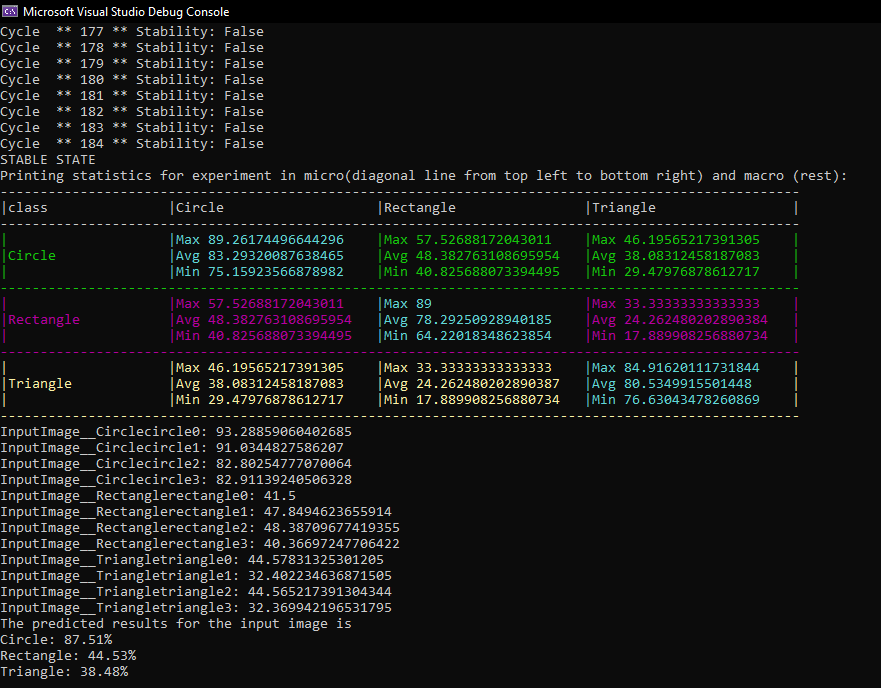
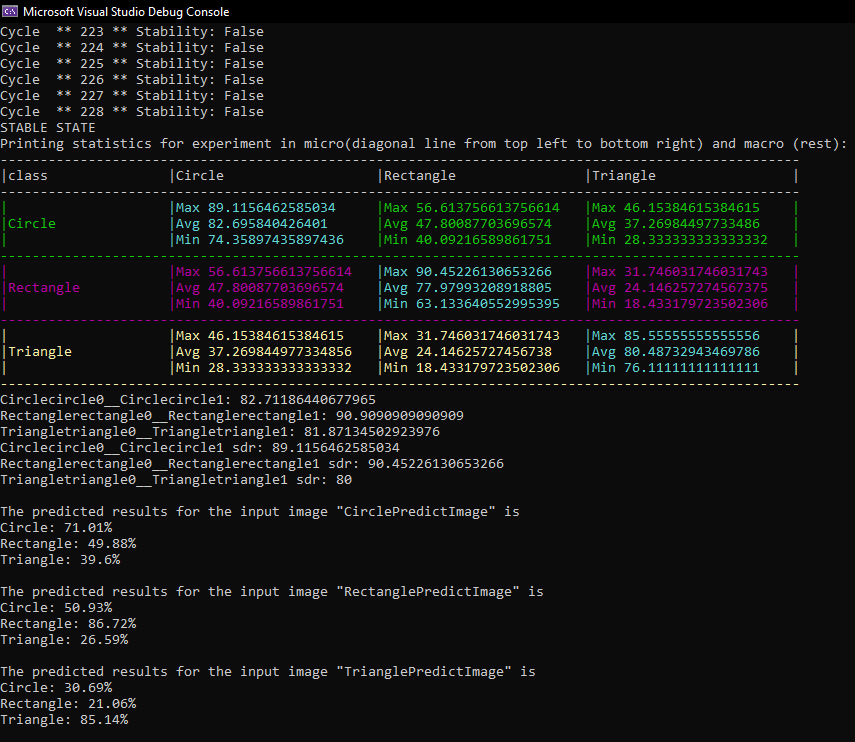
adding experiments on potential radius=10

Changed region(s): [[0.0, 0.0, 1.0, 1.0], [0.8819, 0.5494, 0.9123, 0.5799]]

diff --git a/ImageClassification/ImageClassification/Experiment.cs b/ImageClassification/ImageClassification/Experiment.cs
@@ -64,6 +64,7 @@ namespace ConsoleApp
                             listCorrelation.Add(temp, MathHelpers.CalcArraySimilarity(sdr1, sdr2));
                             listInputCorrelation.Add(temp, MathHelpers.CalcArraySimilarity(binaries[filePathList[i]].IndexWhere((el) => el == 1), binaries[filePathList2[j]].IndexWhere((el) => el == 1)));
                         }
+                        Console.WriteLine("sdr len: " + sdr1.Length);
                     }
                 }
             }
